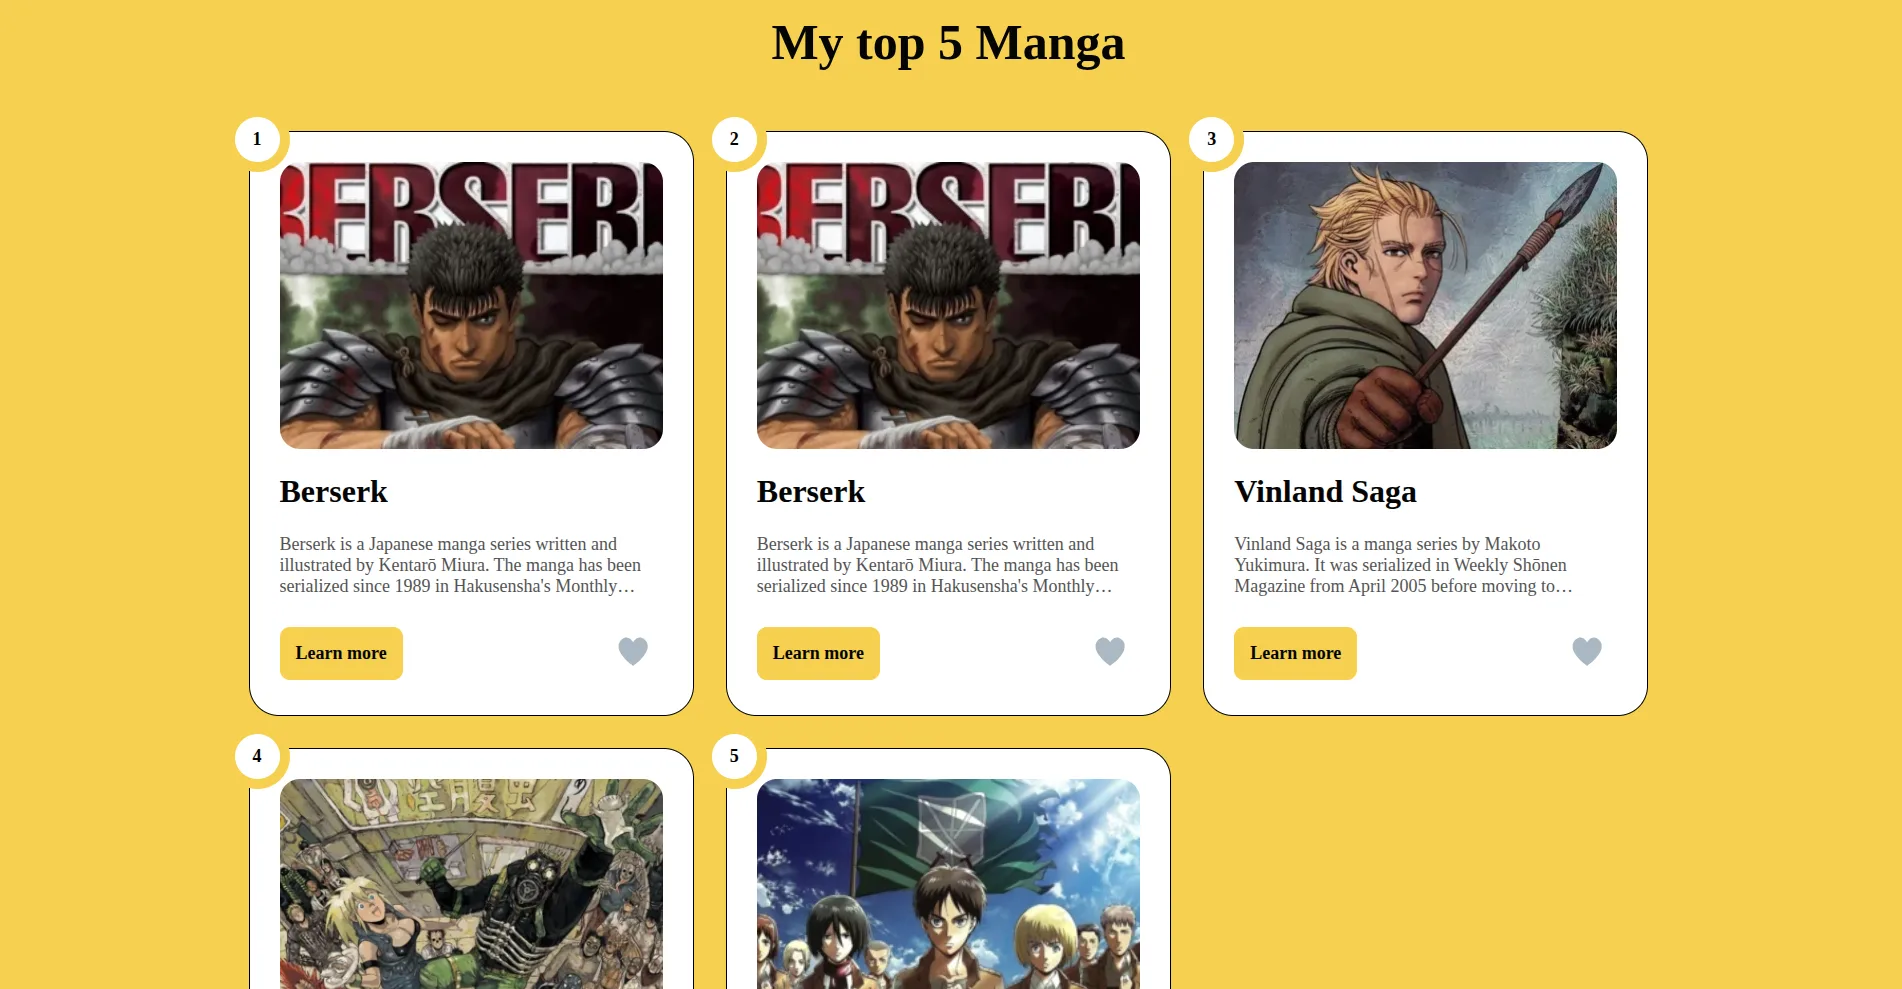
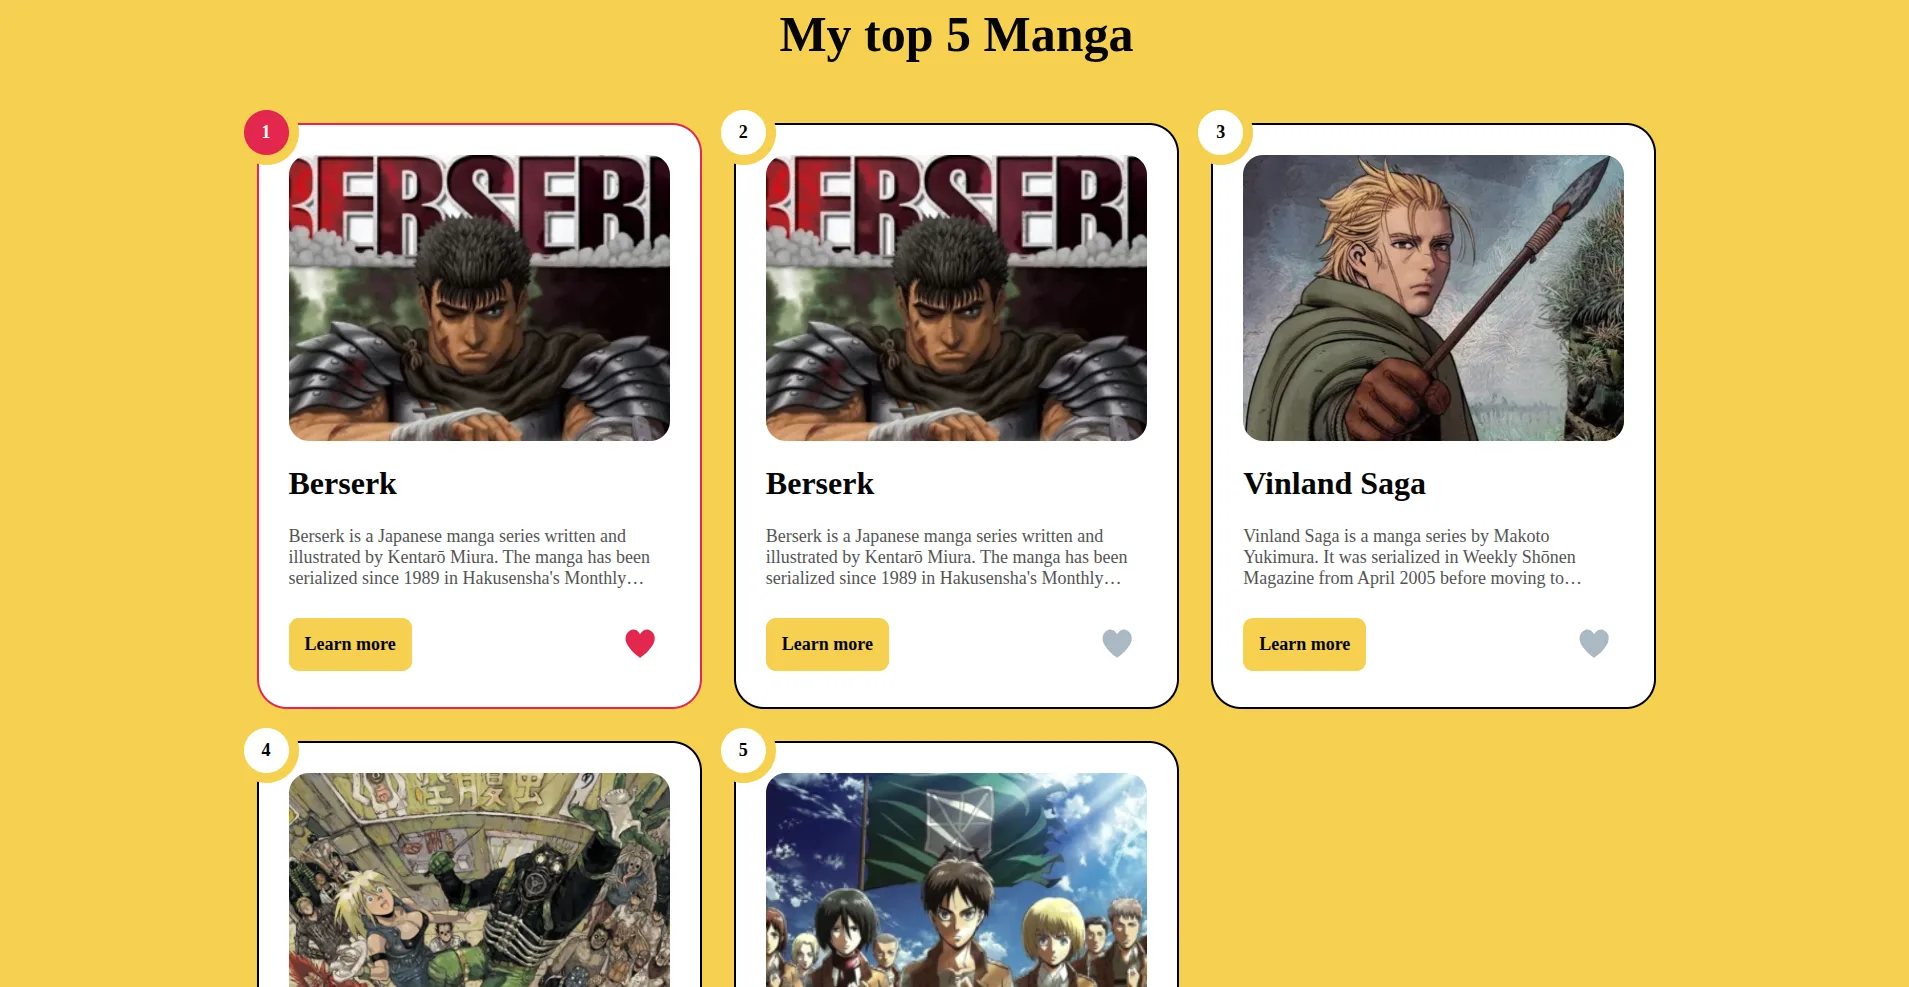
feat: implement interactive like button

Changed region(s): [[0.1241, 0.0912, 0.8686, 1.0], [0.4033, 0.0, 0.5894, 0.0912], [0.8065, 0.6383, 0.8686, 0.6687]]

diff --git a/index.html b/index.html
@@ -22,7 +22,7 @@
 
               <div>
                   <svg
-                    id="heart-svg" class="heart-svg" class="heart-svg" class="heart-svg" class="heart-svg"
+                    id="heart-svg-1" class="heart-svg" class="heart-svg" class="heart-svg" class="heart-svg"
                     viewBox="467 392 58 57"
                     xmlns="http://www.w3.org/2000/svg"
                   >
@@ -34,7 +34,7 @@
                     >
                       <path
                         d="M29.144 20.773c-.063-.13-4.227-8.67-11.44-2.59C7.63 28.795 28.94 43.256 29.143 43.394c.204-.138 21.513-14.6 11.44-25.213-7.214-6.08-11.377 2.46-11.44 2.59z"
-                        id="heart"
+                        id="heart-1"
                         fill="#AAB8C2"
                       />
                       <circle
@@ -95,7 +95,7 @@
 
               <div>
                   <svg
-                    id="heart-svg" class="heart-svg" class="heart-svg" class="heart-svg"
+                    id="heart-svg-2" class="heart-svg" class="heart-svg" class="heart-svg"
                     viewBox="467 392 58 57"
                     xmlns="http://www.w3.org/2000/svg"
                   >
@@ -107,7 +107,7 @@
                     >
                       <path
                         d="M29.144 20.773c-.063-.13-4.227-8.67-11.44-2.59C7.63 28.795 28.94 43.256 29.143 43.394c.204-.138 21.513-14.6 11.44-25.213-7.214-6.08-11.377 2.46-11.44 2.59z"
-                        id="heart"
+                        id="heart-2"
                         fill="#AAB8C2"
                       />
                       <circle
@@ -168,7 +168,7 @@
 
               <div>
                   <svg
-                    id="heart-svg" class="heart-svg" class="heart-svg" class="heart-svg" class="heart-svg"
+                    id="heart-svg-3" class="heart-svg" class="heart-svg" class="heart-svg" class="heart-svg"
                     viewBox="467 392 58 57"
                     xmlns="http://www.w3.org/2000/svg"
                   >
@@ -180,7 +180,7 @@
                     >
                       <path
                         d="M29.144 20.773c-.063-.13-4.227-8.67-11.44-2.59C7.63 28.795 28.94 43.256 29.143 43.394c.204-.138 21.513-14.6 11.44-25.213-7.214-6.08-11.377 2.46-11.44 2.59z"
-                        id="heart"
+                        id="heart-3"
                         fill="#AAB8C2"
                       />
                       <circle
@@ -240,7 +240,7 @@
               <a class="manga-item-button"href="https://fr.wikipedia.org/wiki/Dorohedoro" target="_blank">Learn more</a>
               <div>
                   <svg
-                    id="heart-svg" class="heart-svg" class="heart-svg" class="heart-svg" class="heart-svg"
+                    id="heart-svg-4" class="heart-svg" class="heart-svg" class="heart-svg" class="heart-svg"
                     viewBox="467 392 58 57"
                     xmlns="http://www.w3.org/2000/svg"
                   >
@@ -252,7 +252,7 @@
                     >
                       <path
                         d="M29.144 20.773c-.063-.13-4.227-8.67-11.44-2.59C7.63 28.795 28.94 43.256 29.143 43.394c.204-.138 21.513-14.6 11.44-25.213-7.214-6.08-11.377 2.46-11.44 2.59z"
-                        id="heart"
+                        id="heart-4"
                         fill="#AAB8C2"
                       />
                       <circle
@@ -313,7 +313,7 @@
 
               <div>
                   <svg
-                    id="heart-svg" class="heart-svg" class="heart-svg" class="heart-svg" class="heart-svg"
+                    id="heart-svg-5" class="heart-svg" class="heart-svg" class="heart-svg" class="heart-svg"
                     viewBox="467 392 58 57"
                     xmlns="http://www.w3.org/2000/svg"
                   >
@@ -325,7 +325,7 @@
                     >
                       <path
                         d="M29.144 20.773c-.063-.13-4.227-8.67-11.44-2.59C7.63 28.795 28.94 43.256 29.143 43.394c.204-.138 21.513-14.6 11.44-25.213-7.214-6.08-11.377 2.46-11.44 2.59z"
-                        id="heart"
+                        id="heart-5"
                         fill="#AAB8C2"
                       />
                       <circle
@@ -382,10 +382,6 @@
     </div>
   </section>
   
-  <script>
-    /* variables declaration */
-    const favButton = document.querySelectorAll('.heart-svg');
-    console.log(favButton);
-  </script>
+  <script src="script.js"></script>
 </body>
 </html>

diff --git a/style.css b/style.css
@@ -35,6 +35,7 @@
 
   /* effects */
   --shadow-main: 6px 6px 0px 0px var(--color-heading);
+  --shadow-main-hover: 6px 6px 0px 0px var(--heart-button-hover);
   --transition-speed: 0.25s;
 }
 
@@ -100,11 +101,11 @@ h1 {
   width: calc((100% - 4rem) / 3);
   position: relative;
   background-color: var(--white);
-  border: 1px solid var(--black);
+  border: 2px solid var(--black);
   border-radius: var(--radius-lg);
   padding: 30px;
   gap: 24px;
-  transition: box-shadow var(--transition-speed) ease-in-out;
+  transition: box-shadow var(--transition-speed) ease-in-out, border-color var(--transition-speed) ease-in-out;
 }
 
 /* adjust item width based on screen size */
@@ -180,6 +181,8 @@ h1 {
   width: 65px;
   aspect-ratio: 1/1;
   z-index: 2;
+  transition: background-color var(--transition-speed) ease-in-out, color var(--transition-speed) ease-in-out;
+
 }
 @media(width <= 767px){
 .manga-item .badge {
@@ -196,7 +199,7 @@ h1 {
   justify-content: space-between;
 
 }
-/* like heart button */
+/* like button */
 svg.heart-svg {
   cursor: pointer;
   overflow: visible;
@@ -208,70 +211,15 @@ svg.heart-svg {
 }
 svg.heart-svg path {
   transition: fill var(--transition-speed) ease-in-out, transform var(--transition-speed) ease-in-out;
-  animation: animateCircle 2s ease-in-out 0 1 forwards;
+  /*animation: animateCircle 2s ease-in-out 0 1 forwards;*/
+  transform-origin: center;
+
 }
 svg.heart-svg path:hover {
-  fill: var(--heart-button-hover);
-  transform: scale(1.02);
-  transform-origin: center;
+  /*fill: var(--heart-button-hover);*/
+  transform: scale(1.2);
 }
-
-@keyframes animateCircle {
-  40% {
-    transform: scale(10);
-    opacity: 1;
-    fill: #dd4688;
-  }
-  55% {
-    transform: scale(11);
-    opacity: 1;
-    fill: #d46abf;
-  }
-  65% {
-    transform: scale(12);
-    opacity: 1;
-    fill: #cc8ef5;
-  }
-  75% {
-    transform: scale(13);
-    opacity: 1;
-    fill: transparent;
-    stroke: #cc8ef5;
-    stroke-width: 0.5;
-  }
-  85% {
-    transform: scale(17);
-    opacity: 1;
-    fill: transparent;
-    stroke: #cc8ef5;
-    stroke-width: 0.2;
-  }
-  95% {
-    transform: scale(18);
-    opacity: 1;
-    fill: transparent;
-    stroke: #cc8ef5;
-    stroke-width: 0.1;
-  }
-  100% {
-    transform: scale(19);
-    opacity: 1;
-    fill: transparent;
-    stroke: #cc8ef5;
-    stroke-width: 0;
-  }
-}
-@keyframes animateHeart {
-  0% {
-    transform: scale(0.2);
-  }
-  40% {
-    transform: scale(1.2);
-  }
-  100% {
-    transform: scale(1);
-  }
-}
+/* like button entry animation */
 @keyframes animateHeartOut {
   0% {
     transform: scale(1.4);
@@ -279,6 +227,21 @@ svg.heart-svg path:hover {
   100% {
     transform: scale(1);
   }
+}
+
+/* create a class when the like button is clicked */
+.is-favorite{
+  border-color: var(--heart-button-hover);
+}
+.is-favorite:hover{
+  box-shadow: var(--shadow-main-hover);
+}
+.is-favorite .heart-svg path{
+  fill: var(--heart-button-hover);
+}
+.is-favorite .badge{
+  background-color: var(--heart-button-hover);
+  color: var(--white);
 }
 
 /***  END OF SECTION 1  ***/

diff --git a/script.js b/script.js
@@ -1,0 +1,12 @@
+/* variables */
+const mangaItemList = document.querySelectorAll('.manga-item');
+const favButtons = document.querySelectorAll(".heart-svg");
+
+
+favButtons.forEach(function(favButtonSingle){
+  favButtonSingle.addEventListener('click', function(){
+    favButtonSingle.closest('.manga-item').classList.toggle('is-favorite');
+  });
+});
+
+
